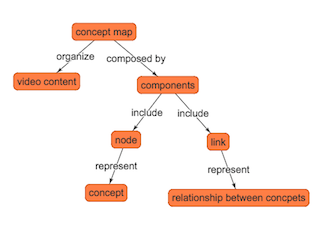
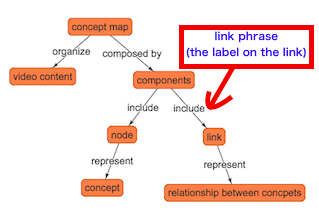
demo3 photo changed

diff --git a/src/Help.js b/src/Help.js
@@ -12,7 +12,7 @@ export default class Help extends Component{
 				<h4 id="improve-the-concept-map-by-">Improve a concept map by...</h4>
 				
 				<p><strong>Add link:</strong> Click on the &#39;Add link&#39; button (shortcut: ctrl-shit / mac user: cmd-shift) and then drag-and-drop from the starting concept to the target concept.</p>
-				<p><strong>Add link phrase / Edit link phrase:</strong> Click on the link and type the link phrase in the input area (on the bottom).</p>
+				<p style={{color:'red'}}><strong>Add link phrase / Edit link phrase:</strong> Click on the link and type the link phrase in the input area (on the bottom).</p>
 				<p><strong>Move concept(s): </strong>You can drag on concept to move it or drag the canvas (any white space) to move the whole concept map.</p>
 				<p><strong>Zoom in/out concept map </strong>You can <em>scroll</em> on the concept map to zoom in and out the view.</p>
 	

diff --git a/src/Firebase/index.js b/src/Firebase/index.js
@@ -15,8 +15,8 @@ import firebase from 'firebase'
 export default firebase
 
 export const REF = {
-  Node: '/result/John Warren/nodes',
-  Link: '/result/John Warren/edges',
+  Node: '/Data/nodes',
+  Link: '/Data/edges',
   Video: '/video',
 }
 
